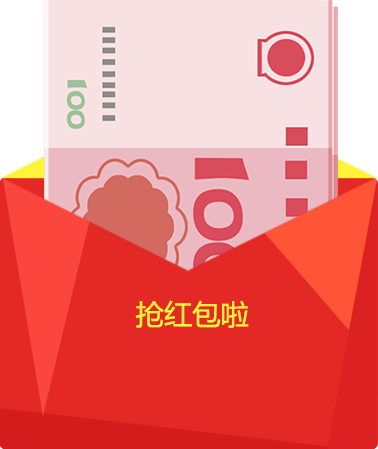
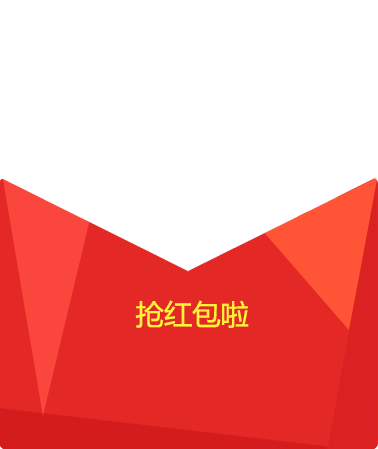
add

diff --git a/app/scripts/main.js b/app/scripts/main.js
@@ -4,6 +4,7 @@ var gWidth,
 	ctx;
 
 var moneyBagPic = new Image();
+var moneyBagPicT = new Image();
 var moneyPic = new Image();
 
 var	mBagTop,
@@ -12,9 +13,12 @@ var	mBagTop,
 	mBagHeight;
 
 var startX,
-	startY;
+	startY,
+	switchy = false;
 
 var timer = 0;
+
+var money;
 
 function init(){
 	canvas = document.querySelector('#canvas');
@@ -26,6 +30,7 @@ function init(){
 	canvas.width = gWidth;
 	canvas.height = gHeight;
 
+	moneyBagPicT.src = 'media/game/moneybagt.png';
 	moneyBagPic.src = 'media/game/moneybag.png';
 	moneyPic.src = 'media/game/money.png';
 
@@ -39,6 +44,8 @@ function init(){
 	$(document).on('touchend', function(e){touchendfn(e)});
 
 	moneyBagPic.onload = function(){
+		money = new moneyObj();
+		money.init();
 		gameLoop();
 	}
 }
@@ -47,6 +54,9 @@ function gameLoop(){
 	window.requestAnimFrame(gameLoop);
 
 	fillCanvas();
+
+	drawMoneyBagT();
+	drawMoney();
 	drawMoneyBag();
 }
 
@@ -56,7 +66,11 @@ function fillCanvas(){
 }
 
 function drawMoneyBag(){
-		ctx.drawImage(moneyBagPic, mBagLeft, mBagTop, mBagWidth, mBagHeight);
+	ctx.drawImage(moneyBagPic, mBagLeft, mBagTop, mBagWidth, mBagHeight);
+}
+
+function drawMoneyBagT(){
+	ctx.drawImage(moneyBagPicT, mBagLeft, mBagTop, mBagWidth, mBagHeight);
 }
 
 function touchstartfn(event){
@@ -66,7 +80,6 @@ function touchstartfn(event){
 
 	startX = x;
 	startY = y;
-	// alert(touch.pageX + '--------' + touch.pageY);
 }
 
 function preventmove(event){
@@ -79,20 +92,17 @@ function preventmove(event){
 	if(startY - y > 100){
 		timer = setTimeout(function(){
 			if(timer){
-				alert('a');
-				
+				switchy = true;
 			}
 			timer = 0;
 		}
-		, 500);
+		, 100);
 	}
 }
 
 function touchendfn(event){
 	console.log(startX + '--------------' + startY);
 }
-
-
 
 $(document).ready(function(){
 	init();

diff --git a/app/scripts/money.js b/app/scripts/money.js
@@ -1,0 +1,50 @@
+/* 
+* @Author: ocean
+* @Date:   2015-06-11 14:10:49
+* @Last Modified by:   ocean
+* @Last Modified time: 2015-06-11 15:25:26
+*/
+
+'use strict';
+
+var moneyObj = function(){
+	this.x;
+	this.y;
+	this.top;
+	this.left;
+	this.speed;
+};
+
+moneyObj.prototype.init = function(){
+	this.x = parseInt(mBagWidth * 0.8);
+	this.y = parseInt(this.x / (380 / 772));
+	this.top = parseInt(gHeight - this.y + 30);
+	this.left = parseInt((gWidth - this.x) / 2);
+	this.speed = -20;
+
+}
+
+moneyObj.prototype.update = function(){
+	if(switchy){
+		this.top += this.speed;
+		if(Math.abs(this.top) > this.y + 100){
+			this.top = parseInt(gHeight - this.y + 30);
+			switchy = false;
+		}
+	}
+}
+
+moneyObj.prototype.draw = function(){
+	ctx.save();
+	ctx.drawImage(moneyPic, this.left, this.top, this.x, this.y);
+	ctx.restore();
+}
+
+function drawMoney(){
+	money.update();
+	money.draw();
+}
+
+function aliveUpdate(){
+
+}

diff --git a/app/index.html b/app/index.html
@@ -29,6 +29,7 @@
 
         <!-- build:js({.tmp,app}) scripts/main.min.js -->
         <script src="scripts/main.js"></script>
+        <script src="scripts/money.js"></script>
         <script src="scripts/customtool.js"></script>
         <!-- endbuild -->
 
